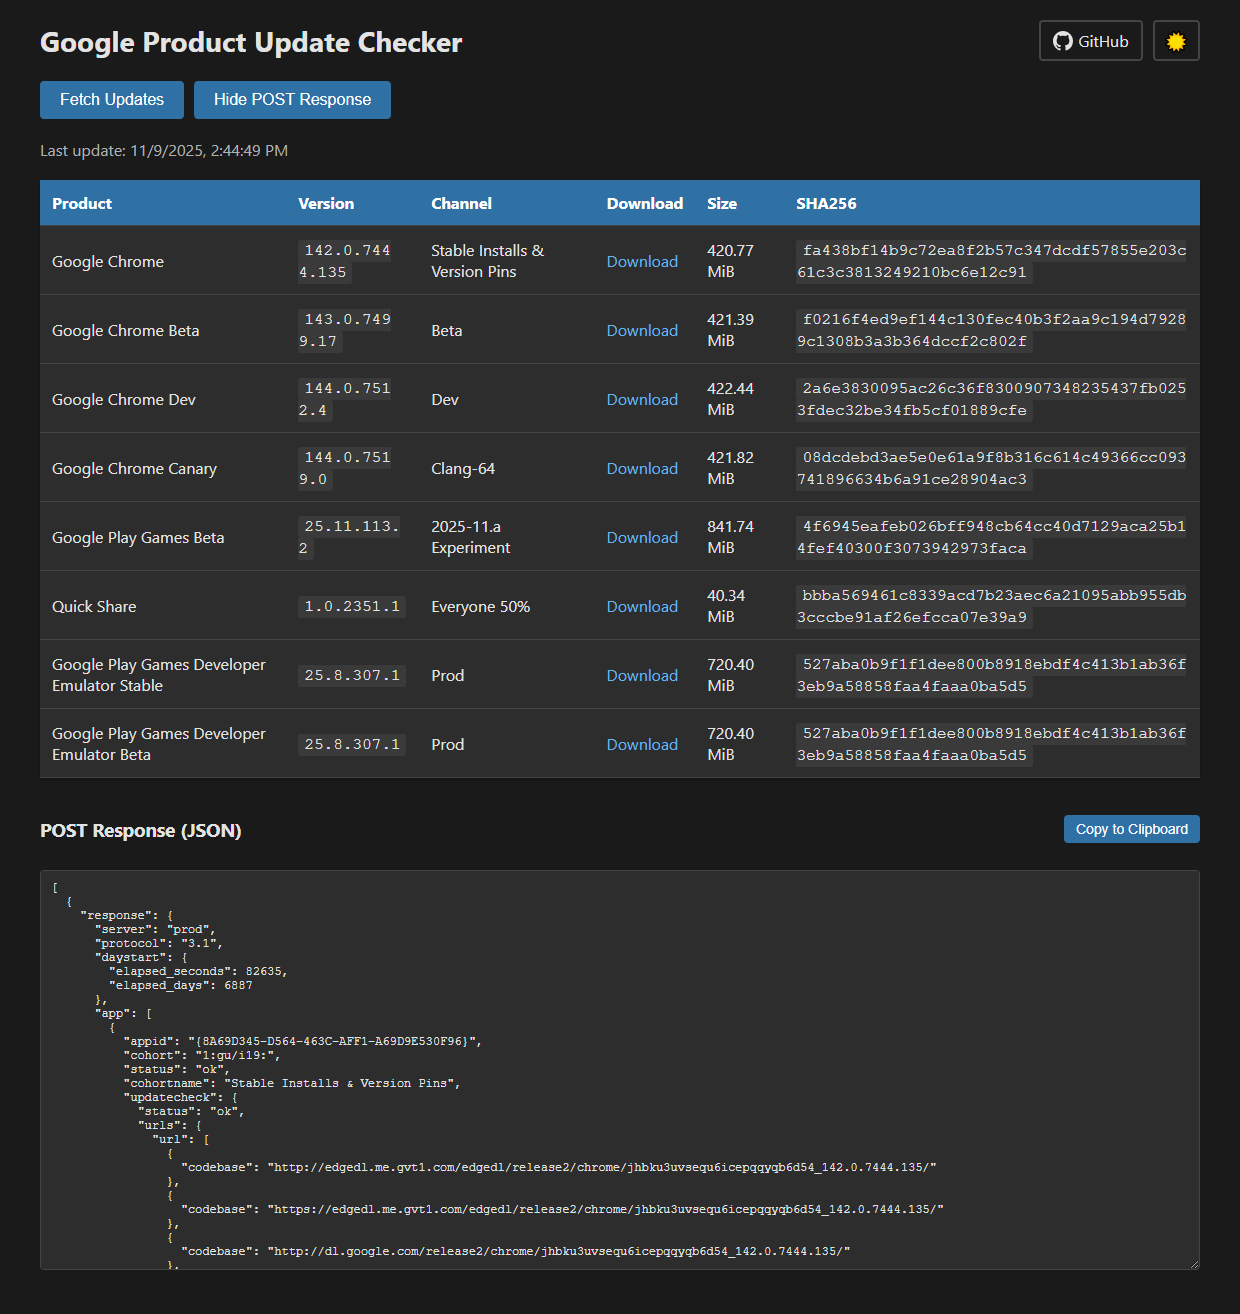
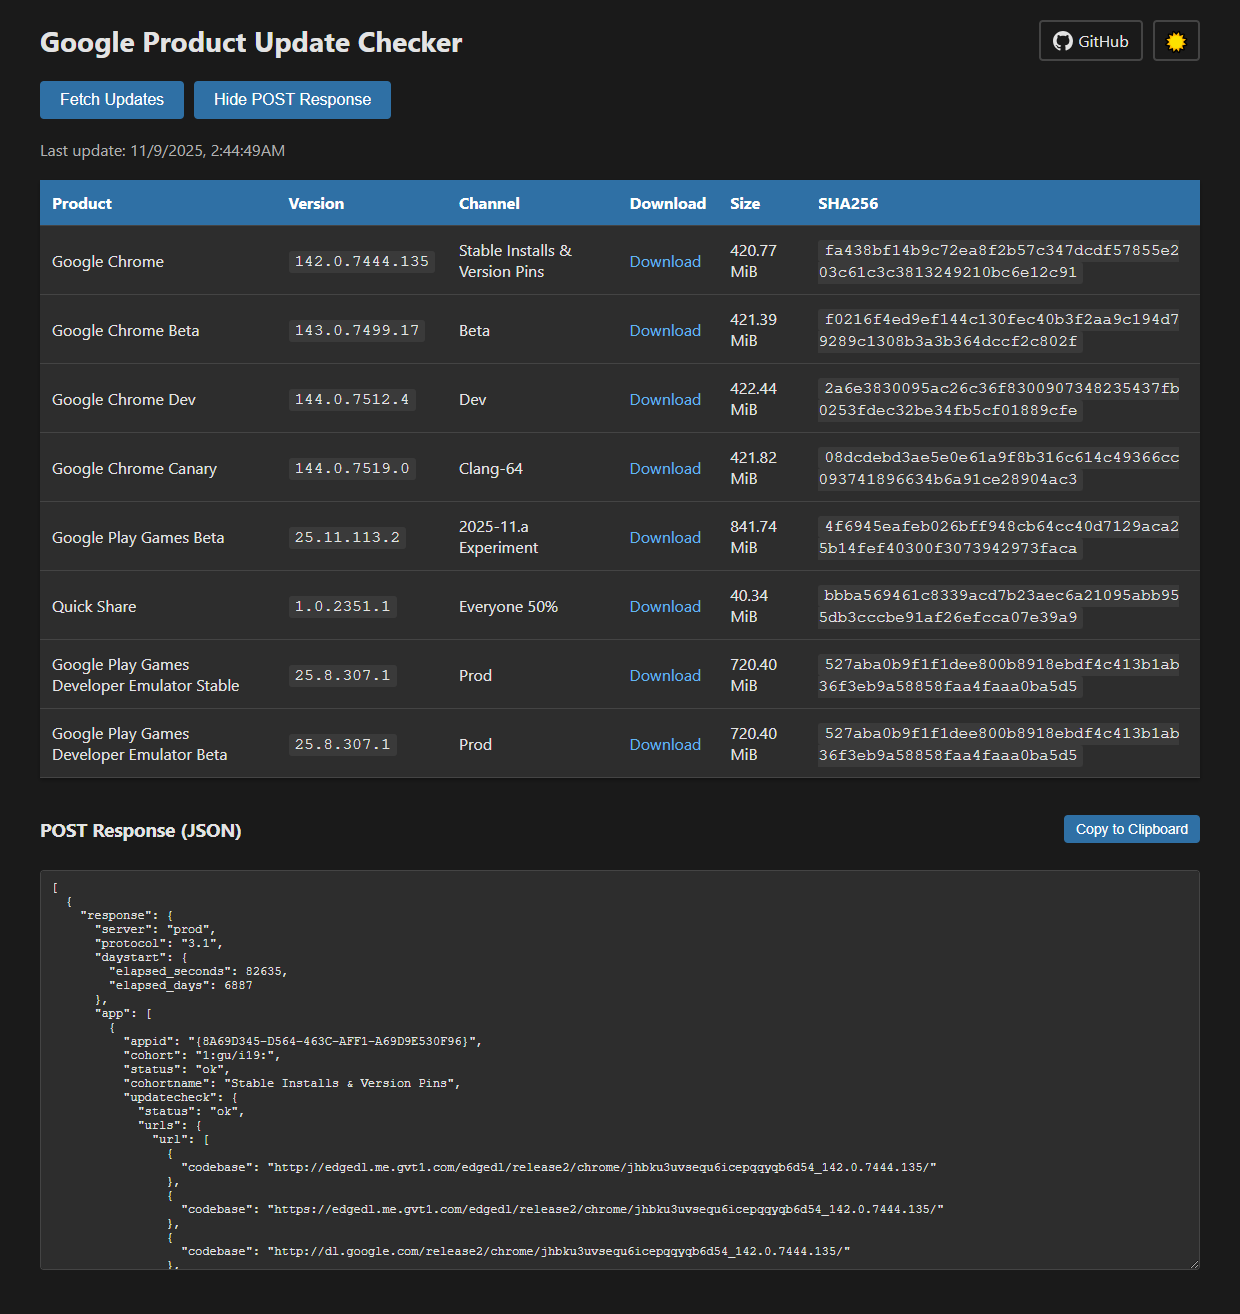
Improve SHA256 code display and update omaha.png

diff --git a/index.html b/index.html
@@ -230,6 +230,9 @@
             padding: 2px 6px;
             border-radius: 3px;
             font-family: 'Courier New', monospace;
+        }
+
+        [data-label="SHA256"] code {
             word-break: break-all;
         }
 

diff --git a/README.md b/README.md
@@ -121,10 +121,10 @@ The application includes several security measures:
 
 This project follows the same license as the original [chsbuffer/omaha2tg](https://github.com/chsbuffer/omaha2tg) repository.
 
-## Contributing
+<!-- ## Contributing
 
 Contributions are welcome! Please feel free to submit a Pull Request.
 
 ## Support
 
-For issues, questions, or suggestions, please [open an issue](https://github.com/sekedus/omaha/issues) on GitHub.
+For issues, questions, or suggestions, please [open an issue](https://github.com/sekedus/omaha/issues) on GitHub. -->
